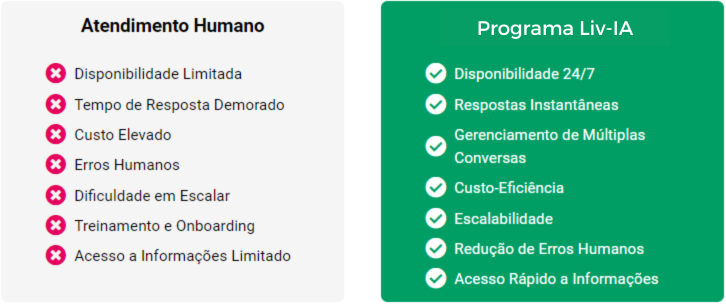
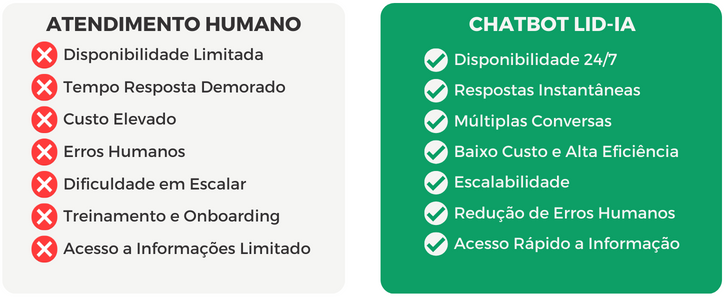
Add files via upload

Changed region(s): [[0.5152, 0.0, 1.0, 1.0], [0.0303, 0.0296, 0.4242, 0.8882], [0.6364, 0.0592, 0.8788, 0.148]]

diff --git a/privacidade.html b/privacidade.html
@@ -14,7 +14,7 @@
     <link rel="shortcut icon" type="image/jpg" href="./assets/img/favicon.png">
 
     <!-- Título da Página -->
-    <title>Política de Privacidade | Programa LIV-IA</title>
+    <title>Política de Privacidade | Programa Lid-IA</title>
     
     <style type="text/css">
       body {
@@ -28,7 +28,7 @@
     <div class="container py-5">
       <div class="row justify-content-center">
         <div class="col-lg-8">
-          <h2>Política Privacidade</h2>                    <p>A sua privacidade é importante para nós. É política do Liv-IA respeitar a sua privacidade em relação a qualquer informação sua que possamos coletar no site <a href="#">Liv-IA</a>, e outros sites que possuímos e operamos.</p>                    <p>Solicitamos informações pessoais apenas quando realmente precisamos delas para lhe fornecer um serviço. Fazemo-lo por meios justos e legais, com o seu conhecimento e consentimento. Também informamos por que estamos coletando e como será usado.                    </p>                    <p>Apenas retemos as informações coletadas pelo tempo necessário para fornecer o serviço solicitado. Quando armazenamos dados, protegemos dentro de meios comercialmente aceitáveis para evitar perdas e roubos, bem como acesso, divulgação, cópia, uso ou                        modificação não autorizados.</p>                    <p>Não compartilhamos informações de identificação pessoal publicamente ou com terceiros, exceto quando exigido por lei.</p>                    <p>O nosso site pode ter links para sites externos que não são operados por nós. Esteja ciente de que não temos controle sobre o conteúdo e práticas desses sites e não podemos aceitar responsabilidade por suas respectivas <a href='https://politicaprivacidade.com' target='_BLANK'>políticas de privacidade</a>.                    </p>                    <p>Você é livre para recusar a nossa solicitação de informações pessoais, entendendo que talvez não possamos fornecer alguns dos serviços desejados.</p>                    <p>O uso continuado de nosso site será considerado como aceitação de nossas práticas em torno de privacidade e informações pessoais. Se você tiver alguma dúvida sobre como lidamos com dados do usuário e informações pessoais, entre em contacto connosco.</p>                    <h2>Política de Cookies Liv-IA</h2>                    <h3>O que são cookies?</h3>                    <p>Como é prática comum em quase todos os sites profissionais, este site usa cookies, que são pequenos arquivos baixados no seu computador, para melhorar sua experiência. Esta página descreve quais informações eles coletam, como as usamos e por que às vezes                        precisamos armazenar esses cookies. Também compartilharemos como você pode impedir que esses cookies sejam armazenados, no entanto, isso pode fazer o downgrade ou 'quebrar' certos elementos da funcionalidade do site.</p>                    <h3>Como usamos os cookies?</h3>                    <p>Utilizamos cookies por vários motivos, detalhados abaixo. Infelizmente, na maioria dos casos, não existem opções padrão do setor para desativar os cookies sem desativar completamente a funcionalidade e os recursos que eles adicionam a este site. É recomendável                        que você deixe todos os cookies se não tiver certeza se precisa ou não deles, caso sejam usados para fornecer um serviço que você usa.</p>                    <h3>Desativar cookies</h3>                    <p>Você pode impedir a configuração de cookies ajustando as configurações do seu navegador (consulte a Ajuda do navegador para saber como fazer isso). Esteja ciente de que a desativação de cookies afetará a funcionalidade deste e de muitos outros sites que                        você visita. A desativação de cookies geralmente resultará na desativação de determinadas funcionalidades e recursos deste site. Portanto, é recomendável que você não desative os cookies.</p>                    <h3>Cookies que definimos</h3>                    <ul>                        <li>                            Cookies relacionados à conta<br><br> Se você criar uma conta connosco, usaremos cookies para o gerenciamento do processo de inscrição e administração geral. Esses cookies geralmente serão excluídos quando você sair do sistema, porém, em alguns                            casos, eles poderão permanecer posteriormente para lembrar as preferências do seu site ao sair.<br><br>                        </li>                        <li>                            Cookies relacionados ao login<br><br> Utilizamos cookies quando você está logado, para que possamos lembrar dessa ação. Isso evita que você precise fazer login sempre que visitar uma nova página. Esses cookies são normalmente removidos ou limpos                            quando você efetua logout para garantir que você possa acessar apenas a recursos e áreas restritas ao efetuar login.<br><br>                        </li>                        <li>                            Cookies relacionados a boletins por e-mail<br><br> Este site oferece serviços de assinatura de boletim informativo ou e-mail e os cookies podem ser usados para lembrar se você já está registrado e se deve mostrar determinadas notificações                            válidas apenas para usuários inscritos / não inscritos.<br><br>                        </li>                        <li>                            Pedidos processando cookies relacionados<br><br> Este site oferece facilidades de comércio eletrônico ou pagamento e alguns cookies são essenciais para garantir que seu pedido seja lembrado entre as páginas, para que possamos processá-lo adequadamente.<br><br>                        </li>                        <li>                            Cookies relacionados a pesquisas<br><br> Periodicamente, oferecemos pesquisas e questionários para fornecer informações interessantes, ferramentas úteis ou para entender nossa base de usuários com mais precisão. Essas pesquisas podem usar cookies                            para lembrar quem já participou numa pesquisa ou para fornecer resultados precisos após a alteração das páginas.<br><br>                        </li>                        <li>                            Cookies relacionados a formulários<br><br> Quando você envia dados por meio de um formulário como os encontrados nas páginas de contacto ou nos formulários de comentários, os cookies podem ser configurados para lembrar os detalhes do usuário                            para correspondência futura.<br><br>                        </li>                        <li>                            Cookies de preferências do site<br><br> Para proporcionar uma ótima experiência neste site, fornecemos a funcionalidade para definir suas preferências de como esse site é executado quando você o usa. Para lembrar suas preferências, precisamos                            definir cookies para que essas informações possam ser chamadas sempre que você interagir com uma página for afetada por suas preferências.<br>                        </li>                    </ul>                    <h3>Cookies de Terceiros</h3>                    <p>Em alguns casos especiais, também usamos cookies fornecidos por terceiros confiáveis. A seção a seguir detalha quais cookies de terceiros você pode encontrar através deste site.</p>                    <ul>                        <li>                            Este site usa o Google Analytics, que é uma das soluções de análise mais difundidas e confiáveis da Web, para nos ajudar a entender como você usa o site e como podemos melhorar sua experiência. Esses cookies podem rastrear itens como quanto tempo                            você gasta no site e as páginas visitadas, para que possamos continuar produzindo conteúdo atraente.                        </li>                    </ul>                    <p>Para mais informações sobre cookies do Google Analytics, consulte a página oficial do Google Analytics.</p>                    <ul>                        <li>                            As análises de terceiros são usadas para rastrear e medir o uso deste site, para que possamos continuar produzindo conteúdo atrativo. Esses cookies podem rastrear itens como o tempo que você passa no site ou as páginas visitadas, o que nos ajuda a entender                            como podemos melhorar o site para você.</li>                        <li>                            Periodicamente, testamos novos recursos e fazemos alterações subtis na maneira como o site se apresenta. Quando ainda estamos testando novos recursos, esses cookies podem ser usados para garantir que você receba uma experiência consistente enquanto                            estiver no site, enquanto entendemos quais otimizações os nossos usuários mais apreciam.</li>                        <li>                            À medida que vendemos produtos, é importante entendermos as estatísticas sobre quantos visitantes de nosso site realmente compram e, portanto, esse é o tipo de dados que esses cookies rastrearão. Isso é importante para você, pois significa que podemos                            fazer previsões de negócios com precisão que nos permitem analizar nossos custos de publicidade e produtos para garantir o melhor preço possível.</li>                                            </ul>                    <h3>Compromisso do Usuário</h3>                                <p>O usuário se compromete a fazer uso adequado dos conteúdos e da informação que o Liv-IA oferece no site e com caráter enunciativo, mas não limitativo:</p>                                        <ul>                        <li>A) Não se envolver em atividades que sejam ilegais ou contrárias à boa fé a à ordem pública;</li>                        <li>B) Não difundir propaganda ou conteúdo de natureza racista, xenofóbica, <a style='color: inherit !important; text-decoration:none !important;' href='https://ondeapostar.pt/onde-da-a-bola/'>Onde Bola</a> ou azar, qualquer tipo de pornografia ilegal, de apologia ao terrorismo ou contra os direitos humanos;</li>                        <li>C) Não causar danos aos sistemas físicos (hardwares) e lógicos (softwares) do Liv-IA, de seus fornecedores ou terceiros, para introduzir ou disseminar vírus informáticos ou quaisquer outros sistemas de hardware ou software que sejam capazes de causar danos anteriormente mencionados.</li>                    </ul>                                        <h3>Mais informações</h3>                    <p>Esperemos que esteja esclarecido e, como mencionado anteriormente, se houver algo que você não tem certeza se precisa ou não, geralmente é mais seguro deixar os cookies ativados, caso interaja com um dos recursos que você usa em nosso site.</p>                    <p>Esta política é efetiva a partir de <strong>March</strong>/<strong>2022</strong>.</p>
+          <h2>Política Privacidade</h2>                    <p>A sua privacidade é importante para nós. É política do Lid-IA respeitar a sua privacidade em relação a qualquer informação sua que possamos coletar no site <a href="#">Lid-IA</a>, e outros sites que possuímos e operamos.</p>                    <p>Solicitamos informações pessoais apenas quando realmente precisamos delas para lhe fornecer um serviço. Fazemo-lo por meios justos e legais, com o seu conhecimento e consentimento. Também informamos por que estamos coletando e como será usado.                    </p>                    <p>Apenas retemos as informações coletadas pelo tempo necessário para fornecer o serviço solicitado. Quando armazenamos dados, protegemos dentro de meios comercialmente aceitáveis para evitar perdas e roubos, bem como acesso, divulgação, cópia, uso ou                        modificação não autorizados.</p>                    <p>Não compartilhamos informações de identificação pessoal publicamente ou com terceiros, exceto quando exigido por lei.</p>                    <p>O nosso site pode ter links para sites externos que não são operados por nós. Esteja ciente de que não temos controle sobre o conteúdo e práticas desses sites e não podemos aceitar responsabilidade por suas respectivas <a href='https://politicaprivacidade.com' target='_BLANK'>políticas de privacidade</a>.                    </p>                    <p>Você é livre para recusar a nossa solicitação de informações pessoais, entendendo que talvez não possamos fornecer alguns dos serviços desejados.</p>                    <p>O uso continuado de nosso site será considerado como aceitação de nossas práticas em torno de privacidade e informações pessoais. Se você tiver alguma dúvida sobre como lidamos com dados do usuário e informações pessoais, entre em contacto connosco.</p>                    <h2>Política de Cookies Lid-IA</h2>                    <h3>O que são cookies?</h3>                    <p>Como é prática comum em quase todos os sites profissionais, este site usa cookies, que são pequenos arquivos baixados no seu computador, para melhorar sua experiência. Esta página descreve quais informações eles coletam, como as usamos e por que às vezes                        precisamos armazenar esses cookies. Também compartilharemos como você pode impedir que esses cookies sejam armazenados, no entanto, isso pode fazer o downgrade ou 'quebrar' certos elementos da funcionalidade do site.</p>                    <h3>Como usamos os cookies?</h3>                    <p>Utilizamos cookies por vários motivos, detalhados abaixo. Infelizmente, na maioria dos casos, não existem opções padrão do setor para desativar os cookies sem desativar completamente a funcionalidade e os recursos que eles adicionam a este site. É recomendável                        que você deixe todos os cookies se não tiver certeza se precisa ou não deles, caso sejam usados para fornecer um serviço que você usa.</p>                    <h3>Desativar cookies</h3>                    <p>Você pode impedir a configuração de cookies ajustando as configurações do seu navegador (consulte a Ajuda do navegador para saber como fazer isso). Esteja ciente de que a desativação de cookies afetará a funcionalidade deste e de muitos outros sites que                        você visita. A desativação de cookies geralmente resultará na desativação de determinadas funcionalidades e recursos deste site. Portanto, é recomendável que você não desative os cookies.</p>                    <h3>Cookies que definimos</h3>                    <ul>                        <li>                            Cookies relacionados à conta<br><br> Se você criar uma conta connosco, usaremos cookies para o gerenciamento do processo de inscrição e administração geral. Esses cookies geralmente serão excluídos quando você sair do sistema, porém, em alguns                            casos, eles poderão permanecer posteriormente para lembrar as preferências do seu site ao sair.<br><br>                        </li>                        <li>                            Cookies relacionados ao login<br><br> Utilizamos cookies quando você está logado, para que possamos lembrar dessa ação. Isso evita que você precise fazer login sempre que visitar uma nova página. Esses cookies são normalmente removidos ou limpos                            quando você efetua logout para garantir que você possa acessar apenas a recursos e áreas restritas ao efetuar login.<br><br>                        </li>                        <li>                            Cookies relacionados a boletins por e-mail<br><br> Este site oferece serviços de assinatura de boletim informativo ou e-mail e os cookies podem ser usados para lembrar se você já está registrado e se deve mostrar determinadas notificações                            válidas apenas para usuários inscritos / não inscritos.<br><br>                        </li>                        <li>                            Pedidos processando cookies relacionados<br><br> Este site oferece facilidades de comércio eletrônico ou pagamento e alguns cookies são essenciais para garantir que seu pedido seja lembrado entre as páginas, para que possamos processá-lo adequadamente.<br><br>                        </li>                        <li>                            Cookies relacionados a pesquisas<br><br> Periodicamente, oferecemos pesquisas e questionários para fornecer informações interessantes, ferramentas úteis ou para entender nossa base de usuários com mais precisão. Essas pesquisas podem usar cookies                            para lembrar quem já participou numa pesquisa ou para fornecer resultados precisos após a alteração das páginas.<br><br>                        </li>                        <li>                            Cookies relacionados a formulários<br><br> Quando você envia dados por meio de um formulário como os encontrados nas páginas de contacto ou nos formulários de comentários, os cookies podem ser configurados para lembrar os detalhes do usuário                            para correspondência futura.<br><br>                        </li>                        <li>                            Cookies de preferências do site<br><br> Para proporcionar uma ótima experiência neste site, fornecemos a funcionalidade para definir suas preferências de como esse site é executado quando você o usa. Para lembrar suas preferências, precisamos                            definir cookies para que essas informações possam ser chamadas sempre que você interagir com uma página for afetada por suas preferências.<br>                        </li>                    </ul>                    <h3>Cookies de Terceiros</h3>                    <p>Em alguns casos especiais, também usamos cookies fornecidos por terceiros confiáveis. A seção a seguir detalha quais cookies de terceiros você pode encontrar através deste site.</p>                    <ul>                        <li>                            Este site usa o Google Analytics, que é uma das soluções de análise mais difundidas e confiáveis da Web, para nos ajudar a entender como você usa o site e como podemos melhorar sua experiência. Esses cookies podem rastrear itens como quanto tempo                            você gasta no site e as páginas visitadas, para que possamos continuar produzindo conteúdo atraente.                        </li>                    </ul>                    <p>Para mais informações sobre cookies do Google Analytics, consulte a página oficial do Google Analytics.</p>                    <ul>                        <li>                            As análises de terceiros são usadas para rastrear e medir o uso deste site, para que possamos continuar produzindo conteúdo atrativo. Esses cookies podem rastrear itens como o tempo que você passa no site ou as páginas visitadas, o que nos ajuda a entender                            como podemos melhorar o site para você.</li>                        <li>                            Periodicamente, testamos novos recursos e fazemos alterações subtis na maneira como o site se apresenta. Quando ainda estamos testando novos recursos, esses cookies podem ser usados para garantir que você receba uma experiência consistente enquanto                            estiver no site, enquanto entendemos quais otimizações os nossos usuários mais apreciam.</li>                        <li>                            À medida que vendemos produtos, é importante entendermos as estatísticas sobre quantos visitantes de nosso site realmente compram e, portanto, esse é o tipo de dados que esses cookies rastrearão. Isso é importante para você, pois significa que podemos                            fazer previsões de negócios com precisão que nos permitem analizar nossos custos de publicidade e produtos para garantir o melhor preço possível.</li>                                            </ul>                    <h3>Compromisso do Usuário</h3>                                <p>O usuário se compromete a fazer uso adequado dos conteúdos e da informação que o Lid-IA oferece no site e com caráter enunciativo, mas não limitativo:</p>                                        <ul>                        <li>A) Não se envolver em atividades que sejam ilegais ou contrárias à boa fé a à ordem pública;</li>                        <li>B) Não difundir propaganda ou conteúdo de natureza racista, xenofóbica, <a style='color: inherit !important; text-decoration:none !important;' href='https://ondeapostar.pt/onde-da-a-bola/'>Onde Bola</a> ou azar, qualquer tipo de pornografia ilegal, de apologia ao terrorismo ou contra os direitos humanos;</li>                        <li>C) Não causar danos aos sistemas físicos (hardwares) e lógicos (softwares) do Lid-IA, de seus fornecedores ou terceiros, para introduzir ou disseminar vírus informáticos ou quaisquer outros sistemas de hardware ou software que sejam capazes de causar danos anteriormente mencionados.</li>                    </ul>                                        <h3>Mais informações</h3>                    <p>Esperemos que esteja esclarecido e, como mencionado anteriormente, se houver algo que você não tem certeza se precisa ou não, geralmente é mais seguro deixar os cookies ativados, caso interaja com um dos recursos que você usa em nosso site.</p>                    <p>Esta política é efetiva a partir de <strong>March</strong>/<strong>2022</strong>.</p>
         </div>
       </div>
     </div>

diff --git a/index.html b/index.html
@@ -74,52 +74,52 @@
     </header> 
       <div class="container py-3">
         <div class="row justify-content-center">
-          <div class="col-lg-8 text-center">
-
-          
+          <div class="col-lg-8 text-center">         
            <!-- Head Line 02 -->
-            <h3 style="line-height: 1;">Por que o uso do Chatbot LIV-IA <span style="color: #009F66;"><b>supera os Chatbots Tradicionais?</b></span></h3>
-
-            <div id="minhaDiv">
+            <h3 style="line-height: 1;">Por que o uso do Chatbot Lid-IA <span style="color: #009F66;"><b>supera os Chatbots Tradicionais?</b></span></h3>
+              <div id="minhaDiv">
                <img src="assets/img/ef02.png" alt="o que é isso ?"> <!-- Imagem 01 -->
-
-            </div>
+              </div>
            <!-- Head Line 03 -->
-          <h3 style="line-height: 1;">A Efeciência do Chatbot LIV-IA<span style="color: #009F66;"><b> em Relação ao Atendimento Humano.</b></span></h3>
-          
-          <div id="minhaDiv">
-            <div></div>
-              <img src="assets/img/ef01.png" alt="o que é isso ?"> <!-- Imagem 02 -->
-          </div>
+              <h3 style="line-height: 1;">A Efeciência do Chatbot Lid-IA<span style="color: #009F66;"><b> em Relação ao Atendimento Humano.</b></span></h3>
+      
+              <div id="minhaDiv">
+                <img src="assets/img/ef01.png" alt="o que é isso ?"> <!-- Imagem 02 -->
+              </div>
 
            <!-- Head Line 04 -->
-           <p style="line-height: 1;">A mídia brasileira está noticiando isso como uma<span style="color: #009F66;"><b> "GRANDE NOVIDADE" mas lá nos Estados Unidos a automação através do chatbot para whatsapp já está dominando o mercado de atendimento ao cliente, as empresas estão economizando milhares de dólares com funcionários e aumentando o seu faturamento.</b></span></p>
+               <p style="line-height: 1;">A mídia brasileira está noticiando isso como uma<span style="color: #ff1b1b;"><b>"GRANDE NOVIDADE"</b></span><span style="color: #343233;"><b> mas lá nos Estados Unidos a automação através do chatbot para whatsapp já está dominando o mercado de atendimento ao cliente, as empresas estão economizando milhares de dólares com funcionários e aumentando o seu faturamento.</b></span></p>
         
-           <div id="minhaDiv">
-               <img src="assets/img/nt01.png" alt="o que é isso ?"> <!-- Noticia 01 -->
-           </div>    
-           <div id="minhaDiv">
-              <img src="assets/img/nt02.png" alt="o que é isso ?"> <!-- Noticia 02 -->
-          </div> 
-          <div id="minhaDiv">
-              <img src="assets/img/nt03.png" alt="o que é isso ?"> <!-- Notícia 03 -->
-          </div>  
-
+              <div id="minhaDiv">
+                 <img src="assets/img/nt01.png" alt="o que é isso ?"> <!-- Noticia 01 -->
+              </div>    
+              <div id="minhaDiv">
+                 <img src="assets/img/nt02.png" alt="o que é isso ?"> <!-- Noticia 02 -->
+              </div> 
+              <div id="minhaDiv">
+                 <img src="assets/img/nt03.png" alt="o que é isso ?"> <!-- Notícia 03 -->
+              </div>  
+        
 <section>
+      <div id="minhaDiv">
             <!-- Head Line 05 -->
-            <p style="line-height: 1;">Quanto mais rápido as empresas adotarem a automação do Chatbot com o Whatsapp <span style="color: #009F66;"><b>mais rapidamente experimentarão um aumento significativo em seus lucros, otimizando a eficiência e ampliando o potencial de vendas e suporte ao cliente."</b></span></p>
+            <p style="line-height: 1;">Quanto mais rápido as empresas adotarem a automação do Chatbot com o Whatsapp <span style="color: #343233;"><b>mais rapidamente experimentarão um aumento significativo em seus lucros, otimizando a eficiência e ampliando o potencial de vendas e suporte ao cliente."</b></span></p>
             <p><i>Frase de um dos maiores especialistas em automação de processos do mercado.</i></p>
         
-            <h3 style="line-height: 1;">O que você vai adquirir no <span style="color: #009F66;"><b> Programa de Automação Liv-IA?</b></span></h3>
+            <h3 style="line-height: 1;">O que você vai adquirir no <span style="color: #009F66;"><b> Programa de Automação Lid-IA?</b></span></h3>
         
             <!-- Três contêineres com texto "teste" -->
-            <p>✅ Aprenda a configurar e otimizar o Chatbot para o WhatsApp, transformando-o em uma poderosa ferramenta de vendas e suporte ao cliente.</p>
-            <p>✅ Torne-se especialista em criar fluxos de conversa automatizados que guiam os clientes através de processos de vendas e resoluções de problemas de forma eficaz.</p>
-            <p>✅ Torne-se apto a desenvolver respostas dinâmicas que refletem e envolvem diretamente o negócio e os valores da marca, promovendo interações mais significativas e personalizadas com os clientes.</p>
-            <p>✅ Funis de Scripts de Vendas Prontos, só adequar ao seu Nicho e Negócio.</p>
-
+            <div class="container" id="cont01">
+                <div class="box1">
+                <p>✅ Aprenda a configurar e otimizar o Chatbot para o WhatsApp, transformando-o em uma poderosa ferramenta de vendas e suporte ao cliente.</p>
+                <p>✅ Torne-se especialista em criar fluxos de conversa automatizados que guiam os clientes através de processos de vendas e resoluções de problemas de forma eficaz.</p>
+                <p>✅ Torne-se apto a desenvolver respostas dinâmicas que refletem e envolvem diretamente o negócio e os valores da marca, promovendo interações mais significativas e personalizadas com os clientes.</p>
+                <p>✅ Funis de Scripts de Vendas Prontos, só adequar ao seu Nicho e Negócio.</p>    
+            </div>
+               <p style="line-height: 1;">       
+               </style>
          
-            <h3 style="line-height: 1;">"Para quem é o<span style="color: #009F66;"><b> Programa de Automação Liv-IA?</b></span></h3>
+            <h3 style="line-height: 1;">"Para quem é o<span style="color: #009F66;"><b> Programa de Automação Lid-IA?</b></span></h3>
           
             <!-- Três contêineres com texto "teste" -->
             <p><span style="color: #009F66;"><b>✔ Empreendedores e Donos de Negócios</b></span></p>
@@ -146,15 +146,16 @@
             </div> 
 
             <!-- Depoimentos -->
-            <h3 style="line-height: 1;">Garantia Incondicional de 30 Dias <span style="color: #009F66;"><b> para o Programa Liv-IA!</b></span></h3>
+            <h3 style="line-height: 1;">Garantia Incondicional de 30 Dias <span style="color: #009F66;"><b> para o Programa Lid-IA!</b></span></h3>
             <p><i><b>Acreditamos profundamente</b> no valor do nosso Programa, e para assegurar sua total confiança, oferecemos uma garantia incondicional de 30 dias. Se, por qualquer motivo, você não estiver satisfeito com o conteúdo ou resultados, reembolsamos 100% do seu investimento.  Sem complicações, sem riscos, apenas a nossa promessa de qualidade e satisfação.</i></p>
 
 </section> 
-  <h3 style="line-height: 1;">O Programa Liv-IA está com uma<span style="color: #009F66;"><b> OFERTA ESPECIAL</b></span> de lançamento!</h3>
+
+  <h3 style="line-height: 1;">O Programa Lid-IA está com uma<span style="color: #009F66;"><b> OFERTA ESPECIAL</b></span> de lançamento!</h3>
   <h3> <span style="color: #ff1b1b;"><b>APROVEITE!</b></span></h3> 
-  <p><i><b>Você não precisa pagar o olho da cara</b> com tudo que iremos te entregar, facilmente O PROGRAMA LIV-IA valeria mais de R$1000 tranquilamente! e eu sei que você concorda. Mas não vamos cobrar isso!</i></p>
-  <p><i><b>Você não precisa pagar mensalidade</b> pois o Programa Liv-IA é <b>VITALÍCIO!</b> e você pode até revende-lo para seu grupo de Network, pois ele será 100% SEU!</i></p>
-  <p><i><b>Então veja essa Oferta Exclusiva somente hoje!</b> o Programa Liv-IA não vai sair por R$1000, nem por R$500 nem muito menos por R$300 <b>Eu sei que isso é incrível</b> Mas pode acreditar que somente hoje, o Programa Liv-IA será seu por:</i></p>
+  <p><i><b>Você não precisa pagar o olho da cara</b> com tudo que iremos te entregar, facilmente O PROGRAMA Lid-IA valeria mais de R$1000 tranquilamente! e eu sei que você concorda. Mas não vamos cobrar isso!</i></p>
+  <p><i><b>Você não precisa pagar mensalidade</b> pois o Programa Lid-IA é <b>VITALÍCIO!</b> e você pode até revende-lo para seu grupo de Network, pois ele será 100% SEU!</i></p>
+  <p><i><b>Então veja essa Oferta Exclusiva somente hoje!</b> o Programa Lid-IA não vai sair por R$1000, nem por R$500 nem muito menos por R$300 <b>Eu sei que isso é incrível</b> Mas pode acreditar que somente hoje, o Programa Lid-IA será seu por:</i></p>
 
   <h1><b>Apenas <span style="color: #ff1b1b;">R$97,00</span> em até 12x no Cartão de Crédito</b></h1>
   <h3><b>ISSO MESMO QUE VOCÊ VIU !! </b></h3>
@@ -180,7 +181,7 @@
 
 <!-- Botão Whatsapp -->
 <link rel="stylesheet" href="https://maxcdn.bootstrapcdn.com/font-awesome/4.5.0/css/font-awesome.min.css">
-<a href="https://wa.me/5567981396325?text=Quero+saber+sobre+o+Chatbot+LIV-IA" style="position:fixed;width:50px;height:50px;bottom:30px;right:30px;background-color:#25d366;color:#FFF;border-radius:50px;text-align:center;font-size:20px;box-shadow: 3px 3px 2px #888;
+<a href="https://wa.me/5567981396325?text=Quero+saber+sobre+o+Chatbot+Lid-IA" style="position:fixed;width:50px;height:50px;bottom:30px;right:30px;background-color:#25d366;color:#FFF;border-radius:50px;text-align:center;font-size:20px;box-shadow: 3px 3px 2px #888;
   z-index:1000;" target="_blank">
 <i style="margin-top:16px" class="fa fa-whatsapp"></i>
 </a>
@@ -199,7 +200,7 @@
         <div id="cta3" class="mt-2">
           <a href="https://pay.kiwify.com.br/moeXGyB" class="cta3">
             <!--Link do Produto-->
-              <span class="span-btn">OBTER ACESSO AGORA!</span>
+              <span class="span-btn">OBTER ACESSO!</span>
               <span class="span-btn2">(Último Aviso: Acessos Limitados)</span>
           </a>
         </div>

diff --git a/termos.html b/termos.html
@@ -14,7 +14,7 @@
     <link rel="shortcut icon" type="image/jpg" href="./assets/img/favicon.png">
 
     <!-- Título da Página -->
-    <title>Termos de Uso | Protocolo Zero Barriga</title>
+    <title>Termos de Uso | Lid-IA</title>
     
     <style type="text/css">
       body {
@@ -28,7 +28,7 @@
     <div class="container py-5">
       <div class="row justify-content-center">
         <div class="col-lg-8">
-          <h2>1. Termos</h2>            <p>Ao acessar ao site <a href='#'>Protocolo Zero Barriga</a>, concorda em cumprir estes termos de serviço, todas as leis e regulamentos aplicáveis e concorda que é responsável pelo cumprimento de todas as leis locais aplicáveis. Se você não concordar com algum                desses termos, está proibido de usar ou acessar este site. Os materiais contidos neste site são protegidos pelas leis de direitos autorais e marcas comerciais aplicáveis.</p>            <h2>2. Uso de Licença</h2>            <p>É concedida permissão para baixar temporariamente uma cópia dos materiais (informações ou software) no site Protocolo Zero Barriga , apenas para visualização transitória pessoal e não comercial. Esta é a concessão de uma licença, não uma transferência de título e,                sob esta licença, você não pode: </p>            <ol>            <li>modificar ou copiar os materiais;  </li>            <li>usar os materiais para qualquer finalidade comercial ou para exibição pública (comercial ou não comercial);  </li>            <li>tentar descompilar ou fazer engenharia reversa de qualquer software contido no site Protocolo Zero Barriga;  </li>            <li>remover quaisquer direitos autorais ou outras notações de propriedade dos materiais; ou  </li>            <li>transferir os materiais para outra pessoa ou 'espelhe' os materiais em qualquer outro servidor.</li>            </ol>            <p>Esta licença será automaticamente rescindida se você violar alguma dessas restrições e poderá ser rescindida por Protocolo Zero Barriga a qualquer momento. Ao encerrar a visualização desses materiais ou após o término desta licença, você deve apagar todos os materiais                baixados em sua posse, seja em formato eletrónico ou impresso.</p>            <h2>3. Isenção de responsabilidade</h2>            <ol>            <li>Os materiais no site da Protocolo Zero Barriga são fornecidos 'como estão'. Protocolo Zero Barriga não oferece garantias, expressas ou implícitas, e, por este meio, isenta e nega todas as outras garantias, incluindo, sem limitação, garantias implícitas ou condições de comercialização,            adequação a um fim específico ou não violação de propriedade intelectual ou outra violação de direitos. </li>            <li>Além disso, o Protocolo Zero Barriga não garante ou faz qualquer representação relativa à precisão, aos resultados prováveis ou à confiabilidade do uso dos            materiais em seu site ou de outra forma relacionado a esses materiais ou em sites vinculados a este site.</li>            </ol>            <h2>4. Limitações</h2>            <p>Em nenhum caso o Protocolo Zero Barriga ou seus fornecedores serão responsáveis por quaisquer danos (incluindo, sem limitação, danos por perda de dados ou lucro ou devido a interrupção dos negócios) decorrentes do uso ou da incapacidade de usar os materiais em Protocolo Zero Barriga,                mesmo que Protocolo Zero Barriga ou um representante autorizado da Protocolo Zero Barriga tenha sido notificado oralmente ou por escrito da possibilidade de tais danos. Como algumas jurisdições não permitem limitações em garantias implícitas, ou limitações de responsabilidade                por danos conseqüentes ou incidentais, essas limitações podem não se aplicar a você.</p>            <h2>5. Precisão dos materiais</h2>            <p>Os materiais exibidos no site da Protocolo Zero Barriga podem incluir erros técnicos, tipográficos ou fotográficos. Protocolo Zero Barriga não garante que qualquer material em seu site seja preciso, completo ou atual. Protocolo Zero Barriga pode fazer alterações nos materiais contidos em seu                site a qualquer momento, sem aviso prévio. No entanto, Protocolo Zero Barriga não se compromete a atualizar os materiais.</p>            <h2>6. Links</h2>            <p>O Protocolo Zero Barriga não analisou todos os sites vinculados ao seu site e não é responsável pelo conteúdo de nenhum site vinculado. A inclusão de qualquer link não implica endosso por Protocolo Zero Barriga do site. O uso de qualquer site vinculado é por conta e risco do usuário.</p>            </p>            <h3>Modificações</h3>            <p>O Protocolo Zero Barriga pode revisar estes termos de serviço do site a qualquer momento, sem aviso prévio. Ao usar este site, você concorda em ficar vinculado à versão atual desses termos de serviço.</p>            <h3>Lei aplicável</h3>            <p>Estes termos e condições são regidos e interpretados de acordo com as leis do Protocolo Zero Barriga e você se submete irrevogavelmente à jurisdição exclusiva dos tribunais naquele estado ou localidade.</p>
+          <h2>1. Termos</h2>            <p>Ao acessar ao site <a href='#'>Lid-IA</a>, concorda em cumprir estes termos de serviço, todas as leis e regulamentos aplicáveis e concorda que é responsável pelo cumprimento de todas as leis locais aplicáveis. Se você não concordar com algum                desses termos, está proibido de usar ou acessar este site. Os materiais contidos neste site são protegidos pelas leis de direitos autorais e marcas comerciais aplicáveis.</p>            <h2>2. Uso de Licença</h2>            <p>É concedida permissão para baixar temporariamente uma cópia dos materiais (informações ou software) no site Lid-IA , apenas para visualização transitória pessoal e não comercial. Esta é a concessão de uma licença, não uma transferência de título e,                sob esta licença, você não pode: </p>            <ol>            <li>modificar ou copiar os materiais;  </li>            <li>usar os materiais para qualquer finalidade comercial ou para exibição pública (comercial ou não comercial);  </li>            <li>tentar descompilar ou fazer engenharia reversa de qualquer software contido no site Lid-IA;  </li>            <li>remover quaisquer direitos autorais ou outras notações de propriedade dos materiais; ou  </li>            <li>transferir os materiais para outra pessoa ou 'espelhe' os materiais em qualquer outro servidor.</li>            </ol>            <p>Esta licença será automaticamente rescindida se você violar alguma dessas restrições e poderá ser rescindida por Lid-IA a qualquer momento. Ao encerrar a visualização desses materiais ou após o término desta licença, você deve apagar todos os materiais                baixados em sua posse, seja em formato eletrónico ou impresso.</p>            <h2>3. Isenção de responsabilidade</h2>            <ol>            <li>Os materiais no site da Lid-IA são fornecidos 'como estão'. Lid-IA não oferece garantias, expressas ou implícitas, e, por este meio, isenta e nega todas as outras garantias, incluindo, sem limitação, garantias implícitas ou condições de comercialização,            adequação a um fim específico ou não violação de propriedade intelectual ou outra violação de direitos. </li>            <li>Além disso, o Lid-IA não garante ou faz qualquer representação relativa à precisão, aos resultados prováveis ou à confiabilidade do uso dos            materiais em seu site ou de outra forma relacionado a esses materiais ou em sites vinculados a este site.</li>            </ol>            <h2>4. Limitações</h2>            <p>Em nenhum caso o Lid-IA ou seus fornecedores serão responsáveis por quaisquer danos (incluindo, sem limitação, danos por perda de dados ou lucro ou devido a interrupção dos negócios) decorrentes do uso ou da incapacidade de usar os materiais em Lid-IA,                mesmo que Lid-IA ou um representante autorizado da Lid-IA tenha sido notificado oralmente ou por escrito da possibilidade de tais danos. Como algumas jurisdições não permitem limitações em garantias implícitas, ou limitações de responsabilidade                por danos conseqüentes ou incidentais, essas limitações podem não se aplicar a você.</p>            <h2>5. Precisão dos materiais</h2>            <p>Os materiais exibidos no site da Lid-IA podem incluir erros técnicos, tipográficos ou fotográficos. Lid-IA não garante que qualquer material em seu site seja preciso, completo ou atual. Lid-IA pode fazer alterações nos materiais contidos em seu                site a qualquer momento, sem aviso prévio. No entanto, Lid-IA não se compromete a atualizar os materiais.</p>            <h2>6. Links</h2>            <p>O Lid-IA não analisou todos os sites vinculados ao seu site e não é responsável pelo conteúdo de nenhum site vinculado. A inclusão de qualquer link não implica endosso por Lid-IA do site. O uso de qualquer site vinculado é por conta e risco do usuário.</p>            </p>            <h3>Modificações</h3>            <p>O Lid-IA pode revisar estes termos de serviço do site a qualquer momento, sem aviso prévio. Ao usar este site, você concorda em ficar vinculado à versão atual desses termos de serviço.</p>            <h3>Lei aplicável</h3>            <p>Estes termos e condições são regidos e interpretados de acordo com as leis do Lid-IA e você se submete irrevogavelmente à jurisdição exclusiva dos tribunais naquele estado ou localidade.</p>
         </div>
       </div>
     </div>

diff --git a/assets/css/com.css b/assets/css/com.css
@@ -114,7 +114,7 @@ body {
       width: 100%;
       height: auto;
       display: block; /* remove espaços em branco extras abaixo da imagem */
-      box-shadow: 5px 5px 10px rgba(0, 0, 0, 0.3);
+      box-shadow: 10px 10px 15px rgba(0, 0, 0, 0.3);
       padding: 10px;
       margin-bottom: 20px;
   }
@@ -211,6 +211,48 @@ body {
       box-shadow: 0px 1px 1px 0px rgba(0,0,0,0.3); 
       text-decoration: none!important;
 
-
-
     }
+
+    #Cont01 {
+      display: flex;
+      flex-wrap: wrap;
+      justify-content: space-between; /* Espaço entre os elementos */
+      
+  }
+  
+  .box1  {
+      flex: 1;
+      margin: 10px;
+      padding: 15px;
+      border: 1px solid #ccc;
+      box-sizing: border-box;
+      background-color: #009F66; /* Cor de fundo verde */
+      color: rgb(255, 255, 255); /* Cor do texto branca */
+      padding: 15px; /* Preenchimento interno de 15 pixels */
+      height: auto; /* Altura automática com base no conteúdo */
+      width: 100%; /* Largura de 100% do contêiner pai */
+      display: block; /* Exibição como bloco */
+      margin-bottom: 20px; /* Margem inferior de 20 pixels */
+      text-decoration: none; /* Nenhum sublinhado no texto */
+      -webkit-font-smoothing: antialiased; /* Suavização de fonte no WebKit */
+      margin: 0; /* Margem zero */
+      border: 30; /* Sem borda */
+      font: inherit; /* Herda a fonte do elemento pai */
+      vertical-align: baseline; /* Alinhamento vertical à linha de base */
+      outline: 0; /* Nenhum contorno */
+      line-height: 1.5; /* Altura da linha de 1.5 */
+      text-align: center; /* Alinhamento central do texto */
+      position: relative !important; /* Posição relativa com importância */
+      display: inline-block !important; /* Exibição como bloco em linha com importância */
+      border-style: solid; /* Estilo de borda sólida */
+      width: 100%; /* Largura de 100% do contêiner pai */
+      padding-left: 0 !important; /* Preenchimento esquerdo zero com importância */
+      padding-right: 0 !important; /* Preenchimento direito zero com importância */
+      border-radius: 30px; /* Raio de borda de 30 pixels */
+      background: linear-gradient(to bottom, #009F66 0%, #009F66 100%); /* Gradiente linear de verde */
+      box-shadow: 0px 0px 5px 0px rgba(0, 0, 0, 0.7); /* Sombra da caixa */
+      text-decoration: none !important; /* Nenhum sublinhado no texto com importância */
+  }
+  
+ 
+  
